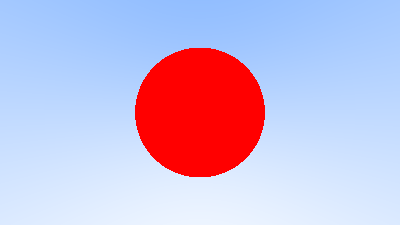
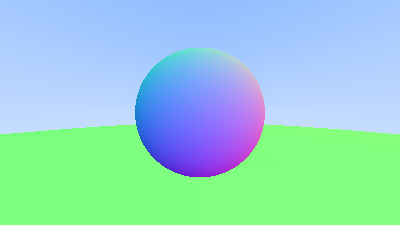
Add core ray tracing classes and utilities: implement hittable, hittable_list, interval, and sphere

diff --git a/main.cpp b/main.cpp
@@ -1,6 +1,8 @@
-#include "color.h"
-#include "ray.h"
-#include "vec3.h"
+#include "common.h"
+
+#include "hittable.h"
+#include "hittable_list.h"
+#include "sphere.h"
 
 #include <chrono>
 #include <fstream>
@@ -8,26 +10,13 @@
 #include <string_view>
 #include <vector>
 
-[[nodiscard]] constexpr bool hit_sphere(const point3 &center, double radius, const ray &r)
+[[nodiscard]] constexpr color ray_color(const ray &r, const hittable &world)
 {
-    vec3 oc = center - r.origin();
-    // Simplified quadratic: a*t^2 + 2ht + c = 0
-    auto a = r.direction().length_squared();
-    auto h = dot(r.direction(), oc);
-    auto c = oc.length_squared() - radius * radius;
-    auto discriminant = h * h - a * c;
+    hit_record rec;
+    if (world.hit(r, interval(0.001, infinity), rec))
+        return 0.5 * (rec.normal + color(1.0, 1.0, 1.0));
 
-    return (discriminant >= 0);
-}
-
-[[nodiscard]] constexpr color ray_color(const ray &r)
-{
-    // Check if the ray hits a sphere at z = -1 with radius 0.5
-    if (hit_sphere(point3(0, 0, -1), 0.5, r))
-    {
-        return color(1, 0, 0); // Render red if hit
-    }
-
+    // Background gradient (Sky)
     vec3 unit_direction = unit_vector(r.direction());
     auto a = 0.5 * (unit_direction.y + 1.0);
     return (1.0 - a) * color(1.0, 1.0, 1.0) + a * color(0.5, 0.7, 1.0);
@@ -47,6 +36,13 @@ int main()
     }();
 
     constexpr std::string_view filename = "output.ppm";
+
+    // --- World ---
+    hittable_list world;
+    // The "Ground"
+    world.add(std::make_unique<sphere>(point3(0, -100.5, -1), 100));
+    // The "Object"
+    world.add(std::make_unique<sphere>(point3(0, 0, -1), 0.5));
 
     // --- Camera & Viewport Setup ---
     auto focal_length = 1.0;
@@ -85,7 +81,7 @@ int main()
             auto pixel_center = pixel00_loc + (i * pixel_delta_u) + (j * pixel_delta_v);
             auto ray_direction = pixel_center - camera_center;
             ray r(camera_center, ray_direction);
-            color pixel_color = ray_color(r);
+            color pixel_color = ray_color(r, world);
             pixels.push_back(to_pixel(pixel_color));
         }
     }

diff --git a/hittable_list.h b/hittable_list.h
@@ -1,0 +1,53 @@
+#pragma once
+
+#include "hittable.h"
+
+#include <memory>
+#include <vector>
+
+class hittable_list : public hittable
+{
+public:
+    // Container of unique pointers to ensure zero-overhead ownership
+    std::vector<std::unique_ptr<hittable>> objects;
+
+    hittable_list() = default;
+
+    // Explicit constructor for a single object
+    explicit hittable_list(std::unique_ptr<hittable> object)
+    {
+        add(std::move(object));
+    }
+
+    void clear() { objects.clear(); }
+
+    // Use std::move because unique_ptr cannot be copied
+    void add(std::unique_ptr<hittable> object)
+    {
+        objects.push_back(std::move(object));
+    }
+
+    [[nodiscard]] constexpr bool hit(
+        const ray &r,
+        interval ray_t,
+        hit_record &rec) const override
+    {
+        hit_record temp_rec;
+        bool hit_anything = false;
+        auto closest_so_far = ray_t.max;
+
+        for (const auto &object : objects)
+        {
+            // As we find closer objects, we shrink 'closest_so_far'
+            // This ignores any objects further away than the one we just hit
+            if (object->hit(r, interval(ray_t.min, closest_so_far), temp_rec))
+            {
+                hit_anything = true;
+                closest_so_far = temp_rec.t;
+                rec = temp_rec;
+            }
+        }
+
+        return hit_anything;
+    }
+};

diff --git a/sphere.h b/sphere.h
@@ -1,0 +1,46 @@
+#pragma once
+
+#include "common.h"
+#include "hittable.h"
+
+class sphere : public hittable
+{
+public:
+    constexpr sphere(const point3 &center, double radius)
+        : center(center), radius(std::fmax(0, radius)) {}
+
+    [[nodiscard]] bool hit(const ray &r, interval ray_t, hit_record &rec) const override
+    {
+        vec3 oc = center - r.origin();
+        // Simplified quadratic: a*t^2 + 2ht + c = 0
+        auto a = r.direction().length_squared();
+        auto h = dot(r.direction(), oc);
+        auto c = oc.length_squared() - radius * radius;
+
+        auto discriminant = h * h - a * c;
+        if (discriminant < 0)
+            return false;
+
+        auto sqrtd = std::sqrt(discriminant);
+
+        // Find the nearest root that lies in the acceptable range (tmin, tmax)
+        auto root = (h - sqrtd) / a;
+        if (!ray_t.surrounds(root))
+        {
+            root = (h + sqrtd) / a;
+            if (!ray_t.surrounds(root))
+                return false;
+        }
+
+        rec.t = root;
+        rec.p = r.at(rec.t);
+        vec3 outward_normal = (rec.p - center) / radius;
+        rec.set_face_normal(r, outward_normal);
+
+        return true;
+    }
+
+private:
+    point3 center;
+    double radius;
+};

diff --git a/interval.h b/interval.h
@@ -1,0 +1,44 @@
+#pragma once
+
+#include "common.h"
+
+class interval
+{
+public:
+    double min, max;
+
+    // Default interval is empty
+    constexpr interval() : min(+infinity), max(-infinity) {}
+
+    constexpr interval(double min, double max) : min(min), max(max) {}
+
+    [[nodiscard]] constexpr double size() const noexcept
+    {
+        return max - min;
+    }
+
+    [[nodiscard]] constexpr bool contains(double x) const noexcept
+    {
+        return min <= x && x <= max;
+    }
+
+    [[nodiscard]] constexpr bool surrounds(double x) const noexcept
+    {
+        return min < x && x < max;
+    }
+
+    // Clamp utility: stays within [min, max]
+    [[nodiscard]] constexpr double clamp(double x) const noexcept
+    {
+        if (x < min)
+            return min;
+        if (x > max)
+            return max;
+        return x;
+    }
+
+    static const interval empty, universe;
+};
+
+inline constexpr interval interval::empty = interval(+infinity, -infinity);
+inline constexpr interval interval::universe = interval(-infinity, +infinity);

diff --git a/hittable.h b/hittable.h
@@ -1,0 +1,28 @@
+#pragma once
+
+#include "ray.h"
+
+struct hit_record
+{
+    point3 p;
+    vec3 normal;
+    double t;
+    bool front_face;
+
+    // Sets the hit record normal vector.
+    // NOTE: the parameter `outward_normal` is assumed to have unit length.
+    constexpr void set_face_normal(const ray &r, const vec3 &outward_normal)
+    {
+        front_face = dot(r.direction(), outward_normal) < 0;
+        normal = front_face ? outward_normal : -outward_normal;
+    }
+};
+
+class hittable
+{
+public:
+    virtual ~hittable() = default;
+
+    [[nodiscard]] virtual bool hit(
+        const ray &r, interval ray_t, hit_record &rec) const = 0;
+};

diff --git a/common.h b/common.h
@@ -1,0 +1,22 @@
+#pragma once
+
+#include <cmath>
+#include <limits>
+#include <memory>
+#include <numbers>
+
+// Constants
+inline constexpr double infinity = std::numeric_limits<double>::infinity();
+inline constexpr double pi = std::numbers::pi;
+
+// Utility Functions
+[[nodiscard]] constexpr double degrees_to_radians(double degrees) noexcept
+{
+    return degrees * pi / 180.0;
+}
+
+// Common Headers (Optional: include these if you want a "master" header)
+#include "color.h"
+#include "interval.h"
+#include "ray.h"
+#include "vec3.h"

diff --git a/color.h b/color.h
@@ -1,7 +1,6 @@
 #pragma once
 
 #include "vec3.h"
-#include <algorithm>
 #include <cstdint>
 
 using color = vec3;
